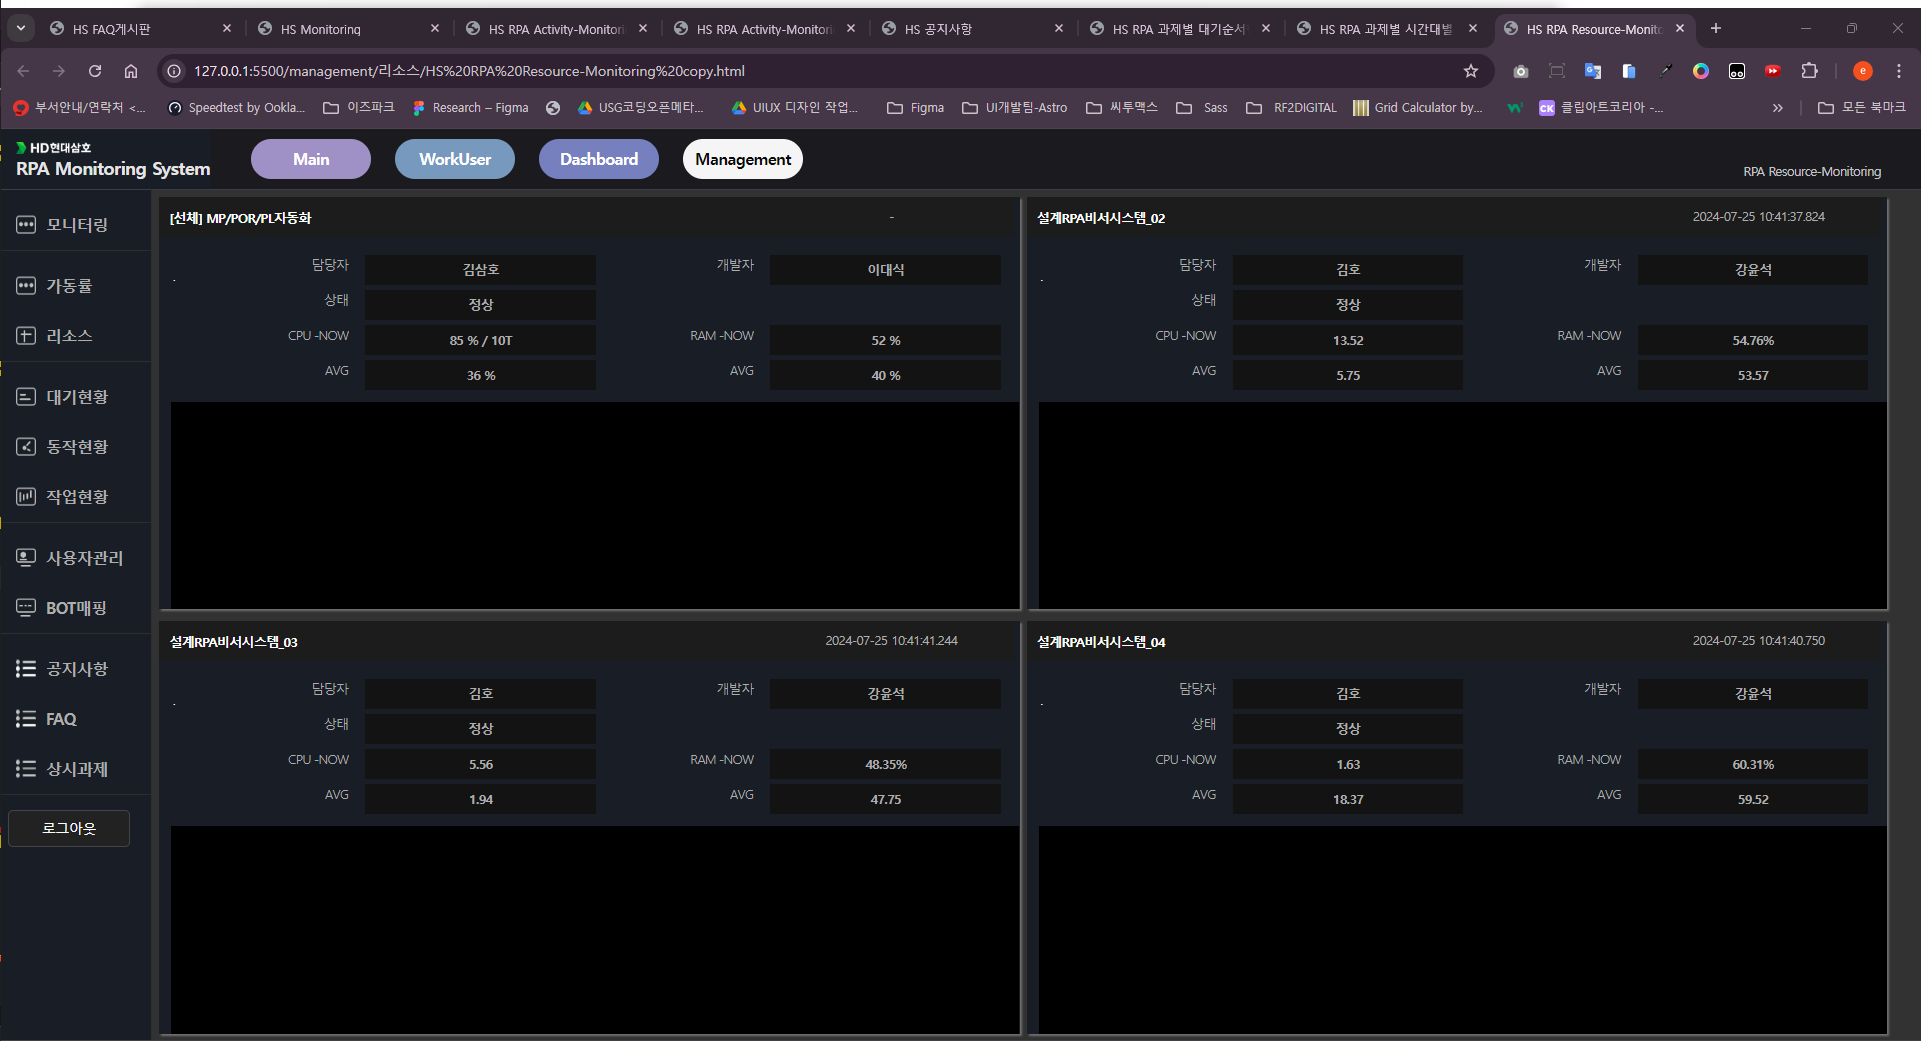
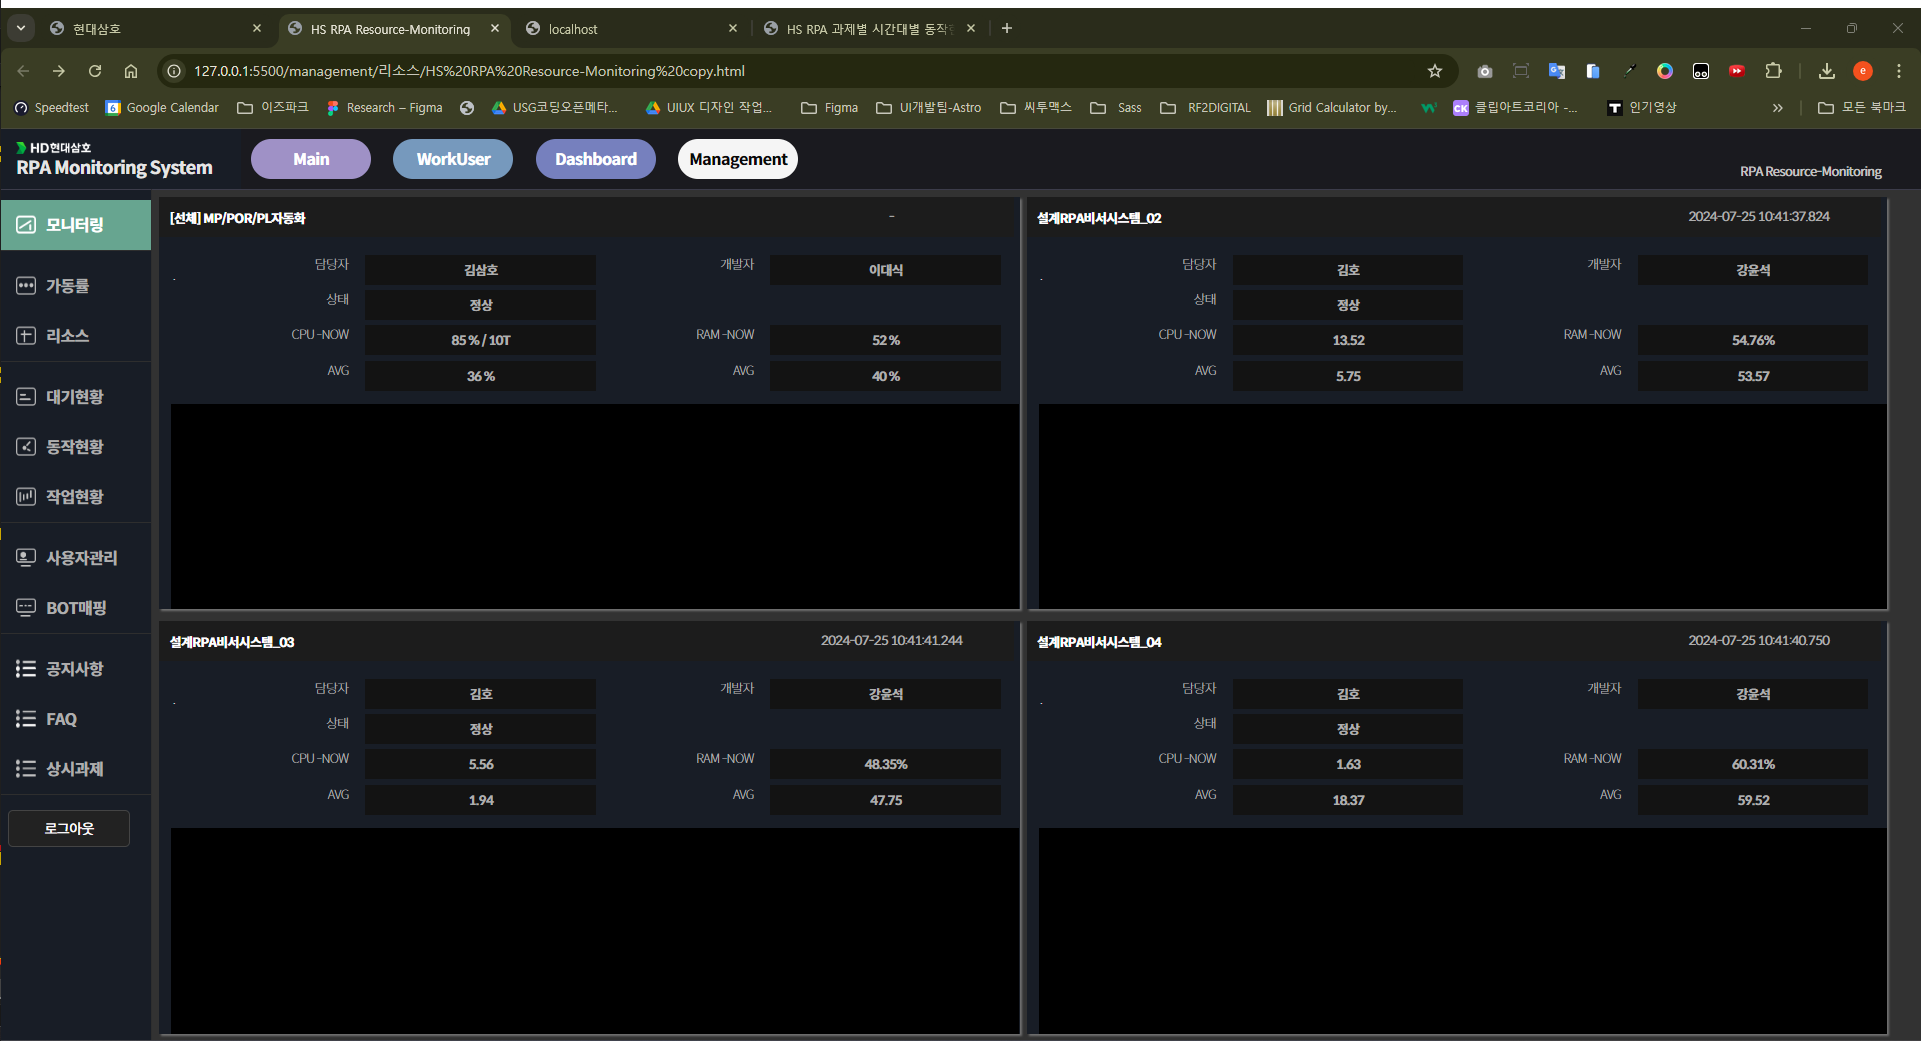
_폴더별 파일 이미지 캡쳐  수정

diff --git a/management/리소스/HS RPA Resource-Monitoring_files/default_mn.css b/management/리소스/HS RPA Resource-Monitoring_files/default_mn.css
@@ -215,7 +215,7 @@ li { list-style: none; margin: 0px; padding: 0px; }
  }*/
 /* nav bar active 활성화 기능 추가 : #allmenu a.st2.active */
 #allmenu a.st2:hover,
-#allmenu a.st2.active { background: #7699bd; /* border-left: .3125rem solid #baccde; */
+#allmenu a.st2.active { background: #67A590; /* border-left: .3125rem solid #baccde; */
  /* margin-left: .3125rem; */
  p { color: #FFFFFF ! important; left: .3125rem; } 
 
@@ -224,7 +224,7 @@ li { list-style: none; margin: 0px; padding: 0px; }
 
 #allmenu .al_2dul li a { padding: 0; } 
 
-#allmenu .al_1dul li ul li a p { display: flex; align-items: center; position: relative; padding-left: 30px; color: #aeaeae; font-size: 16px; font-weight: 600; top: 10%; transform: translateY(50%); left: 15px !important; width: calc(100% - 45PX); } 
+#allmenu .al_1dul li ul li a p { display: flex; align-items: center; position: relative; padding-left: 30px; color: #aeaeae; font-size: 16px; font-weight: 600; top: 10%; transform: translateY(50%); left: 15px !important; width: calc(100% - 45px); } 
 
 #allmenu a.st2>p::before { content: ""; display: block; position: absolute; transition: all 0.3s ease-in-out; left: 0; width: 20px; height: 18px; } 
 
@@ -418,7 +418,7 @@ li { list-style: none; margin: 0px; padding: 0px; }
 /* nav-menu hover effect */
 .btn-nav { position: relative; overflow: hidden; cursor: pointer; } 
 
-.btn-nav .circle { width: 0%; height: 0%; opacity: 0; line-height: 40px; border-radius: 80%; background: #7699bd; position: absolute; transition: all .5s ease-Out; top: 20px; left: 70px; } 
+.btn-nav .circle { width: 0%; height: 0%; opacity: 0; line-height: 40px; border-radius: 80%; background: #67A590; position: absolute; transition: all .5s ease-Out; top: 20px; left: 70px; } 
 
 .btn-nav .st2 { position: relative; transition: all .45s ease-Out; } 
 

diff --git a/management/사용자관리/HS 업무사용자정보관리_files/default_mn.css b/management/사용자관리/HS 업무사용자정보관리_files/default_mn.css
@@ -126,7 +126,7 @@ li { list-style:none; margin:0px; padding:0px; }
  }*/
  /* nav bar active 활성화 기능 추가 : #allmenu a.st2.active */
 #allmenu a.st2:hover,
-#allmenu a.st2.active { background: #7699bd; /* border-left: .3125rem solid #baccde; */
+#allmenu a.st2.active { background: #67A590; /* border-left: .3125rem solid #baccde; */
  /* margin-left: .3125rem; */
  p { color: #FFFFFF ! important; left: .3125rem; } 
 
@@ -135,7 +135,7 @@ li { list-style:none; margin:0px; padding:0px; }
 
 #allmenu .al_2dul li a { padding: 0; } 
 
-#allmenu .al_1dul li ul li a p { display: flex; align-items: center; position: relative; padding-left: 30px; color: #aeaeae; font-size: 16px; font-weight: 600; top: 10%; transform: translateY(50%); left: 15px !important; width: calc(100% - 45PX); } 
+#allmenu .al_1dul li ul li a p { display: flex; align-items: center; position: relative; padding-left: 30px; color: #aeaeae; font-size: 16px; font-weight: 600; top: 10%; transform: translateY(50%); left: 15px !important; width: calc(100% - 45px); } 
 
 #allmenu a.st2>p::before { content: ""; display: block; position: absolute; transition: all 0.3s ease-in-out; left: 0; width: 20px; height: 18px; } 
 
@@ -277,7 +277,7 @@ li { list-style:none; margin:0px; padding:0px; }
  /* nav-menu hover effect */
  .btn-nav { position: relative; overflow: hidden; cursor: pointer; } 
  
- .btn-nav .circle { width: 0%; height: 0%; opacity: 0; line-height: 40px; border-radius: 80%; background: #7699bd; position: absolute; transition: all .5s ease-Out; top: 20px; left: 70px; } 
+ .btn-nav .circle { width: 0%; height: 0%; opacity: 0; line-height: 40px; border-radius: 80%; background: #67A590; position: absolute; transition: all .5s ease-Out; top: 20px; left: 70px; } 
  
  .btn-nav .st2 { position: relative; transition: all .45s ease-Out; } 
  

diff --git a/management/상시과제/HS 상시과제제출_files/default_mn.css b/management/상시과제/HS 상시과제제출_files/default_mn.css
@@ -217,7 +217,7 @@ li { list-style: none; margin: 0px; padding: 0px; }
 
 /* nav bar active 활성화 기능 추가 : #allmenu a.st2.active */
 #allmenu a.st2:hover,
-#allmenu a.st2.active { background: #7699bd; /* border-left: .3125rem solid #baccde; */
+#allmenu a.st2.active { background: #67A590; /* border-left: .3125rem solid #baccde; */
  /* margin-left: .3125rem; */
  p { color: #FFFFFF ! important; left: .3125rem; } 
 
@@ -226,7 +226,7 @@ li { list-style: none; margin: 0px; padding: 0px; }
 
 #allmenu .al_2dul li a { padding: 0; } 
 
-#allmenu .al_1dul li ul li a p { display: flex; align-items: center; position: relative; padding-left: 30px; color: #aeaeae; font-size: 16px; font-weight: 600; top: 10%; transform: translateY(50%); left: 15px !important; width: calc(100% - 45PX); } 
+#allmenu .al_1dul li ul li a p { display: flex; align-items: center; position: relative; padding-left: 30px; color: #aeaeae; font-size: 16px; font-weight: 600; top: 10%; transform: translateY(50%); left: 15px !important; width: calc(100% - 45px); } 
 
 #allmenu a.st2>p::before { content: ""; display: block; position: absolute; transition: all 0.3s ease-in-out; left: 0; width: 20px; height: 18px; } 
 
@@ -432,7 +432,7 @@ li { list-style: none; margin: 0px; padding: 0px; }
 /* nav-menu hover effect */
 .btn-nav { position: relative; overflow: hidden; cursor: pointer; } 
 
-.btn-nav .circle { width: 0%; height: 0%; opacity: 0; line-height: 40px; border-radius: 80%; background: #7699bd; position: absolute; transition: all .5s ease-Out; top: 20px; left: 70px; } 
+.btn-nav .circle { width: 0%; height: 0%; opacity: 0; line-height: 40px; border-radius: 80%; background: #67A590; position: absolute; transition: all .5s ease-Out; top: 20px; left: 70px; } 
 
 .btn-nav .st2 { position: relative; transition: all .45s ease-Out; } 
 

diff --git a/management/작업현황/HS RPA 과제별 작업현황_files/default_mn.css b/management/작업현황/HS RPA 과제별 작업현황_files/default_mn.css
@@ -226,7 +226,7 @@ li { list-style: none; margin: 0px; padding: 0px; }
 
 /* nav bar active 활성화 기능 추가 : #allmenu a.st2.active */
 #allmenu a.st2:hover,
-#allmenu a.st2.active { background: #7699bd; /* border-left: .3125rem solid #baccde; */
+#allmenu a.st2.active { background: #67A590; /* border-left: .3125rem solid #baccde; */
  /* margin-left: .3125rem; */
  p { color: #FFFFFF ! important; left: .3125rem; } 
 
@@ -235,7 +235,7 @@ li { list-style: none; margin: 0px; padding: 0px; }
 
 #allmenu .al_2dul li a { padding: 0; } 
 
-#allmenu .al_1dul li ul li a p { display: flex; align-items: center; position: relative; padding-left: 30px; color: #aeaeae; font-size: 16px; font-weight: 600; top: 10%; transform: translateY(50%); left: 15px !important; width: calc(100% - 45PX); } 
+#allmenu .al_1dul li ul li a p { display: flex; align-items: center; position: relative; padding-left: 30px; color: #aeaeae; font-size: 16px; font-weight: 600; top: 10%; transform: translateY(50%); left: 15px !important; width: calc(100% - 45px); } 
 
 #allmenu a.st2>p::before { content: ""; display: block; position: absolute; transition: all 0.3s ease-in-out; left: 0; width: 20px; height: 18px; } 
 
@@ -414,7 +414,7 @@ li { list-style: none; margin: 0px; padding: 0px; }
 /* nav-menu hover effect */
 .btn-nav { position: relative; overflow: hidden; cursor: pointer; } 
 
-.btn-nav .circle { width: 0%; height: 0%; opacity: 0; line-height: 40px; border-radius: 80%; background: #7699bd; position: absolute; transition: all .5s ease-Out; top: 20px; left: 70px; } 
+.btn-nav .circle { width: 0%; height: 0%; opacity: 0; line-height: 40px; border-radius: 80%; background: #67A590; position: absolute; transition: all .5s ease-Out; top: 20px; left: 70px; } 
 
 .btn-nav .st2 { position: relative; transition: all .45s ease-Out; } 
 

diff --git a/management/공지사항/HS 공지사항_files/default_mn.css b/management/공지사항/HS 공지사항_files/default_mn.css
@@ -140,7 +140,7 @@ li { list-style:none; margin:0px; padding:0px; }
  }*/
 /* nav bar active 활성화 기능 추가 : #allmenu a.st2.active */
 #allmenu a.st2:hover,
-#allmenu a.st2.active { background: #7699bd; /* border-left: .3125rem solid #baccde; */
+#allmenu a.st2.active { background: #67A590; /* border-left: .3125rem solid #baccde; */
  /* margin-left: .3125rem; */
  p { color: #FFFFFF ! important; left: .3125rem; } 
 
@@ -149,7 +149,7 @@ li { list-style:none; margin:0px; padding:0px; }
 
 #allmenu .al_2dul li a { padding: 0; } 
 
-#allmenu .al_1dul li ul li a p { display: flex; align-items: center; position: relative; padding-left: 30px; color: #aeaeae; font-size: 16px; font-weight: 600; top: 10%; transform: translateY(50%); left: 15px !important; width: calc(100% - 45PX); } 
+#allmenu .al_1dul li ul li a p { display: flex; align-items: center; position: relative; padding-left: 30px; color: #aeaeae; font-size: 16px; font-weight: 600; top: 10%; transform: translateY(50%); left: 15px !important; width: calc(100% - 45px); } 
 
 #allmenu a.st2>p::before { content: ""; display: block; position: absolute; transition: all 0.3s ease-in-out; left: 0; width: 20px; height: 18px; } 
 
@@ -297,7 +297,7 @@ li { list-style:none; margin:0px; padding:0px; }
 /* nav-menu hover effect */
 .btn-nav { position: relative; overflow: hidden; cursor: pointer; } 
 
-.btn-nav .circle { width: 0%; height: 0%; opacity: 0; line-height: 40px; border-radius: 80%; background: #7699bd; position: absolute; transition: all .5s ease-Out; top: 20px; left: 70px; } 
+.btn-nav .circle { width: 0%; height: 0%; opacity: 0; line-height: 40px; border-radius: 80%; background: #67A590; position: absolute; transition: all .5s ease-Out; top: 20px; left: 70px; } 
 
 .btn-nav .st2 { position: relative; transition: all .45s ease-Out; } 
 

diff --git a/management/동작현황/HS RPA 과제별 시간대별 동작현황_files/default_mn.css b/management/동작현황/HS RPA 과제별 시간대별 동작현황_files/default_mn.css
@@ -128,7 +128,7 @@ li { list-style:none; margin:0px; padding:0px; }
  }*/
 /* nav bar active 활성화 기능 추가 : #allmenu a.st2.active */
 #allmenu a.st2:hover,
-#allmenu a.st2.active { background: #7699bd; /* border-left: .3125rem solid #baccde; */
+#allmenu a.st2.active { background: #67A590; /* border-left: .3125rem solid #baccde; */
  /* margin-left: .3125rem; */
  p { color: #FFFFFF ! important; left: .3125rem; } 
 
@@ -137,7 +137,7 @@ li { list-style:none; margin:0px; padding:0px; }
 
 #allmenu .al_2dul li a { padding: 0; } 
 
-#allmenu .al_1dul li ul li a p { display: flex; align-items: center; position: relative; padding-left: 30px; color: #aeaeae; font-size: 16px; font-weight: 600; top: 10%; transform: translateY(50%); left: 15px !important; width: calc(100% - 45PX); } 
+#allmenu .al_1dul li ul li a p { display: flex; align-items: center; position: relative; padding-left: 30px; color: #aeaeae; font-size: 16px; font-weight: 600; top: 10%; transform: translateY(50%); left: 15px !important; width: calc(100% - 45px); } 
 
 #allmenu a.st2>p::before { content: ""; display: block; position: absolute; transition: all 0.3s ease-in-out; left: 0; width: 20px; height: 18px; } 
 
@@ -288,7 +288,7 @@ li { list-style:none; margin:0px; padding:0px; }
 /* nav-menu hover effect */
 .btn-nav { position: relative; overflow: hidden; cursor: pointer; } 
 
-.btn-nav .circle { width: 0%; height: 0%; opacity: 0; line-height: 40px; border-radius: 80%; background: #7699bd; position: absolute; transition: all .5s ease-Out; top: 20px; left: 70px; } 
+.btn-nav .circle { width: 0%; height: 0%; opacity: 0; line-height: 40px; border-radius: 80%; background: #67A590; position: absolute; transition: all .5s ease-Out; top: 20px; left: 70px; } 
 
 .btn-nav .st2 { position: relative; transition: all .45s ease-Out; } 
 

diff --git a/management/대기현황/HS RPA 과제별 대기순서현황_files/default_mn.css b/management/대기현황/HS RPA 과제별 대기순서현황_files/default_mn.css
@@ -131,7 +131,7 @@ li { list-style:none; margin:0px; padding:0px; }
  }*/
 /* nav bar active 활성화 기능 추가 : #allmenu a.st2.active */
 #allmenu a.st2:hover,
-#allmenu a.st2.active { background: #7699bd; /* border-left: .3125rem solid #baccde; */
+#allmenu a.st2.active { background: #67A590; /* border-left: .3125rem solid #baccde; */
  /* margin-left: .3125rem; */
  p { color: #FFFFFF ! important; left: .3125rem; } 
 
@@ -140,7 +140,7 @@ li { list-style:none; margin:0px; padding:0px; }
 
 #allmenu .al_2dul li a { padding: 0; } 
 
-#allmenu .al_1dul li ul li a p { display: flex; align-items: center; position: relative; padding-left: 30px; color: #aeaeae; font-size: 16px; font-weight: 600; top: 10%; transform: translateY(50%); left: 15px !important; width: calc(100% - 45PX); } 
+#allmenu .al_1dul li ul li a p { display: flex; align-items: center; position: relative; padding-left: 30px; color: #aeaeae; font-size: 16px; font-weight: 600; top: 10%; transform: translateY(50%); left: 15px !important;width: calc(100% - 45px); } 
 
 #allmenu a.st2>p::before { content: ""; display: block; position: absolute; transition: all 0.3s ease-in-out; left: 0; width: 20px; height: 18px; } 
 
@@ -285,7 +285,7 @@ li { list-style:none; margin:0px; padding:0px; }
 /* nav-menu hover effect */
 .btn-nav { position: relative; overflow: hidden; cursor: pointer; } 
 
-.btn-nav .circle { width: 0%; height: 0%; opacity: 0; line-height: 40px; border-radius: 80%; background: #7699bd; position: absolute; transition: all .5s ease-Out; top: 20px; left: 70px; } 
+.btn-nav .circle { width: 0%; height: 0%; opacity: 0; line-height: 40px; border-radius: 80%; background: #67A590; position: absolute; transition: all .5s ease-Out; top: 20px; left: 70px; } 
 
 .btn-nav .st2 { position: relative; transition: all .45s ease-Out; } 
 

diff --git a/management/home/HS Monitoring_files/default_mn.css b/management/home/HS Monitoring_files/default_mn.css
@@ -220,7 +220,7 @@ li { list-style: none; margin: 0px; padding: 0px; }
 
 /* nav bar active 활성화 기능 추가 : #allmenu a.st2.active */
 #allmenu a.st2:hover,
-#allmenu a.st2.active { background: #7680be; /* border-left: .3125rem solid #babfde; */
+#allmenu a.st2.active { background: #67A590; /* border-left: .3125rem solid #babfde; */
  /* margin-left: 0; */
 
  p { color: #FFFFFF ! important; left: .3125rem; } 
@@ -230,7 +230,7 @@ li { list-style: none; margin: 0px; padding: 0px; }
 
 #allmenu .al_2dul li a { padding: 0; } 
 
-#allmenu .al_1dul li ul li a p { display: flex; align-items: center; position: relative; padding-left: 30px; color: #aeaeae; font-size: 16px; font-weight: 600; top: 10%; transform: translateY(50%); left: 15px !important; } 
+#allmenu .al_1dul li ul li a p { display: flex; align-items: center; position: relative; padding-left: 30px; color: #aeaeae; font-size: 16px; font-weight: 600; top: 10%; transform: translateY(50%); left: 15px !important;width: calc(100% - 45px); } 
 
 #allmenu a.st2>p::before { content: ""; display: block; position: absolute; transition: all 0.3s ease-in-out; left: 0; width: 20px; height: 18px; } 
 
@@ -577,7 +577,7 @@ li { list-style: none; margin: 0px; padding: 0px; }
 /* nav-menu hover effect */
 .btn-nav { position: relative; overflow: hidden; cursor: pointer; } 
 
-.btn-nav .circle { width: 0%; height: 0%; opacity: 0; line-height: 40px; border-radius: 80%; background: #7699bd; position: absolute; transition: all .5s ease-Out; top: 20px; left: 70px; } 
+.btn-nav .circle { width: 0%; height: 0%; opacity: 0; line-height: 40px; border-radius: 80%; background: #67A590; position: absolute; transition: all .5s ease-Out; top: 20px; left: 70px; } 
 
 .btn-nav .st2 { position: relative; transition: all .45s ease-Out; } 
 

diff --git a/management/가동률/HS RPA Activity-Monitoring_files/default_mn.css b/management/가동률/HS RPA Activity-Monitoring_files/default_mn.css
@@ -141,7 +141,7 @@ li { list-style:none; margin:0px; padding:0px; }
  }*/
 /* nav bar active 활성화 기능 추가 : #allmenu a.st2.active */
 #allmenu a.st2:hover,
-#allmenu a.st2.active { background: #7699bd;
+#allmenu a.st2.active { background: #67A590;
  /* border-left: .3125rem solid #baccde; */
  /* margin-left: .3125rem; */
  p { color: #FFFFFF ! important; left: .3125rem; } 
@@ -152,7 +152,7 @@ li { list-style:none; margin:0px; padding:0px; }
 
 #allmenu .al_2dul li a { padding: 0; } 
 
-#allmenu .al_1dul li ul li a p { display: flex; align-items: center; position: relative; padding-left: 30px; color: #aeaeae; font-size: 16px; font-weight: 600; top: 10%; transform: translateY(50%); left: 15px !important; width: calc(100% - 45PX); } 
+#allmenu .al_1dul li ul li a p { display: flex; align-items: center; position: relative; padding-left: 30px; color: #aeaeae; font-size: 16px; font-weight: 600; top: 10%; transform: translateY(50%); left: 15px !important;width: calc(100% - 45px); } 
 
 #allmenu a.st2>p::before { content: ""; display: block; position: absolute; transition: all 0.3s ease-in-out; left: 0; width: 20px; height: 18px; } 
 
@@ -336,7 +336,7 @@ li { list-style:none; margin:0px; padding:0px; }
 /* nav-menu hover effect */
 .btn-nav { position: relative; overflow: hidden; cursor: pointer; } 
 
-.btn-nav .circle { width: 0%; height: 0%; opacity: 0; line-height: 40px; border-radius: 80%; background: #7699bd; position: absolute; transition: all .5s ease-Out; top: 20px; left: 70px; } 
+.btn-nav .circle { width: 0%; height: 0%; opacity: 0; line-height: 40px; border-radius: 80%; background: #67A590; position: absolute; transition: all .5s ease-Out; top: 20px; left: 70px; } 
 
 .btn-nav .st2 { position: relative; transition: all .45s ease-Out; } 
 

diff --git a/management/FAQ게시판/HS FAQ게시판_files/default_mn.css b/management/FAQ게시판/HS FAQ게시판_files/default_mn.css
@@ -226,7 +226,7 @@ li { list-style: none; margin: 0px; padding: 0px; }
 
 #allmenu .al_2dul li a { padding: 0; } 
 
-#allmenu .al_1dul li ul li a p { display: flex; align-items: center; position: relative; padding-left: 30px; color: #aeaeae; font-size: 16px; font-weight: 600; top: 10%; transform: translateY(50%); left: 15px !important; width: calc(100% - 45PX); } 
+#allmenu .al_1dul li ul li a p { display: flex; align-items: center; position: relative; padding-left: 30px; color: #aeaeae; font-size: 16px; font-weight: 600; top: 10%; transform: translateY(50%); left: 15px !important; width: calc(100% - 45px); } 
 
 #allmenu a.st2>p::before { content: ""; display: block; position: absolute; transition: all 0.3s ease-in-out; left: 0; width: 20px; height: 18px; } 
 
@@ -407,7 +407,7 @@ li { list-style: none; margin: 0px; padding: 0px; }
 /* nav-menu hover effect */
 .btn-nav { position: relative; overflow: hidden; cursor: pointer; } 
 
-.btn-nav .circle { width: 0%; height: 0%; opacity: 0; line-height: 40px; border-radius: 80%; background: #7699bd; position: absolute; transition: all .5s ease-Out; top: 20px; left: 70px; } 
+.btn-nav .circle { width: 0%; height: 0%; opacity: 0; line-height: 40px; border-radius: 80%; background: #67A590; position: absolute; transition: all .5s ease-Out; top: 20px; left: 70px; } 
 
 .btn-nav .st2 { position: relative; transition: all .45s ease-Out; } 
 

diff --git a/대시보드/리소스/HS RPA Resource-Monitoring copy.html b/대시보드/리소스/HS RPA Resource-Monitoring copy.html
@@ -23669,23 +23669,24 @@
             });
         })(jQuery);
     </script>
+    
     <script>
-        document.addEventListener('DOMContentLoaded',
-            function () {
-                // 20240720 add script - ley
-                const navItems = document
-                    .querySelectorAll('.st2');
+		document.addEventListener('DOMContentLoaded',
+			function () {
+				// 20240720 add script - ley
+				const navItems = document
+					.querySelectorAll('.st2');
 
-                navItems.forEach(item => {
-                    item.addEventListener('click',
-                        function () {
-                            navItems.forEach(navItem => navItem
-                                .classListNaNpxove('active'));
-                            this.classList.add('active');
-                        });
-                });
-            });
-    </script>
+				navItems.forEach(item => {
+					item.addEventListener('click',
+						function () {
+							navItems.forEach(navItem => navItem
+								.classList.remove('active'));
+							this.classList.add('active');
+						});
+				});
+			});
+	</script>
 
     <!-- template..account -->
 </body>

diff --git a/management/사용자관리/HS 업무사용자정보관리 copy.html b/management/사용자관리/HS 업무사용자정보관리 copy.html
@@ -23840,7 +23840,7 @@
 								<div id="onetrust-policy-title" style="width:50%;">
 									<p id="lb_cu_id_chk">아이디</p>
 									<input id="rr_rn_dept" value="" type="text" name="아이디" placeholder="아이디">
-									<div class="btn-reg btn-check" style="position:absolute;/* width:60px; */height: 25px; line-height: 20px;/* left: 320px; */background: #8D58EB ! important;border:0px solid #e5e5e5;/* border-radius: 10px; *//* font-size: 15px; */font-weight:400;top: 7px;right: 12px;padding: 0 12px;width: auto;">
+									<div class="btn-reg btn-check" style="position:absolute;/* width:60px; */height: 25px; line-height: 20px;/* left: 320px; */background: #0098bd  ! important;border:0px solid #e5e5e5;/* border-radius: 10px; *//* font-size: 15px; */font-weight:400;top: 7px;right: 12px;padding: 0 12px;width: auto;">
 									<a href="#none" onclick="btn_click_chkbsn()" class="" style="/* background: red; */">중복확인</a>
 								</div>
 								</div>
